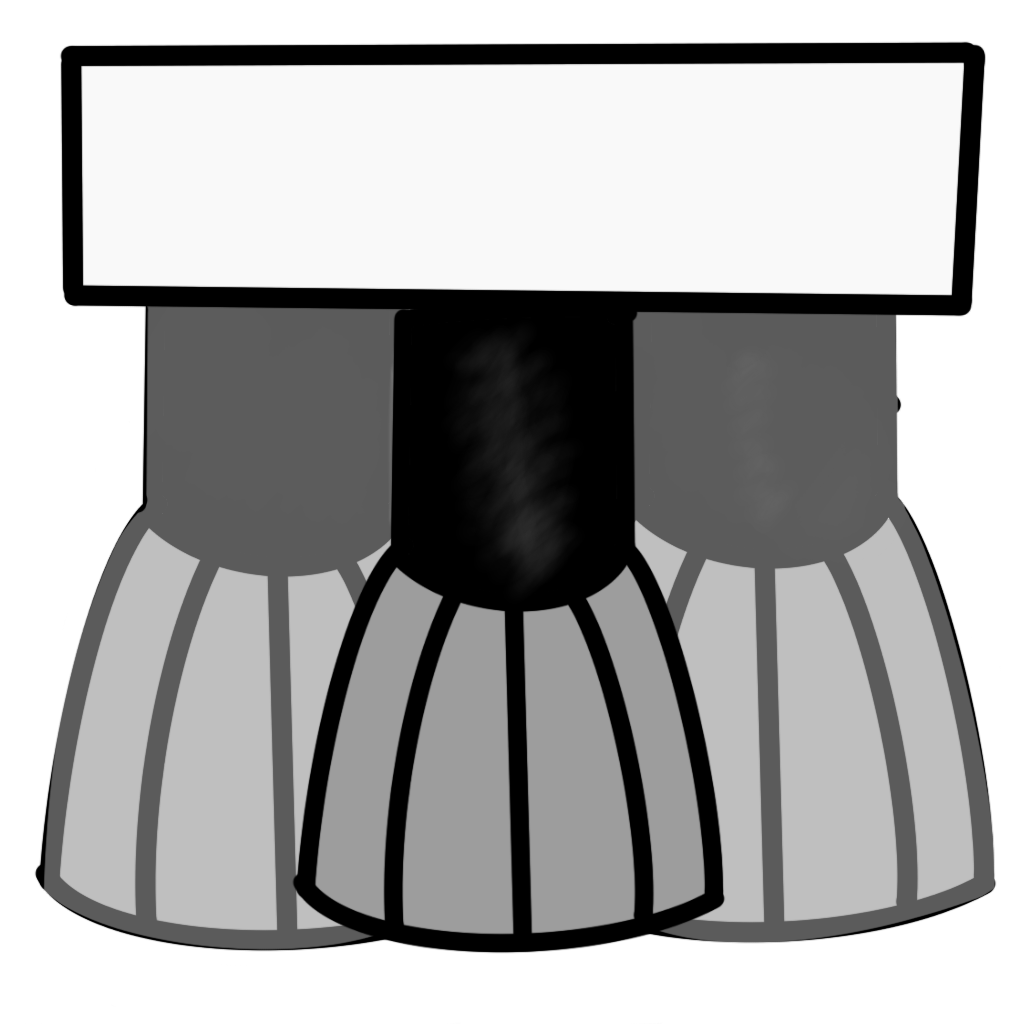
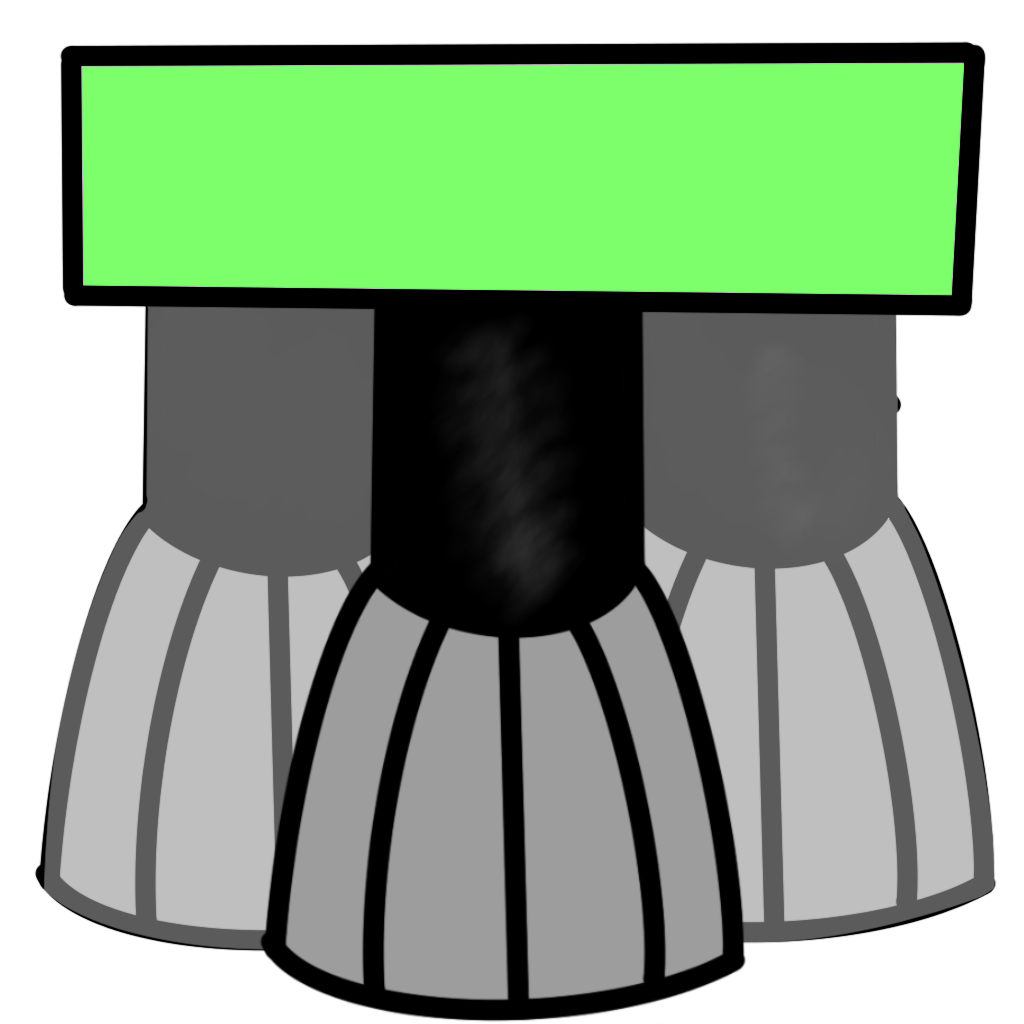
New engine parts + added 3 second no-start timer in beginning state

Changed region(s): [[0.0625, 0.0625, 0.9375, 1.0]]

diff --git a/Assets/Scripts/ScavengeMain.cs b/Assets/Scripts/ScavengeMain.cs
@@ -13,7 +13,8 @@ public class ScavengeMain : MonoBehaviour
 
     [SerializeField]
     RobotCharacter robot;
-    
+
+    float _beginningTimer;
 
     void Awake()
     {
@@ -26,6 +27,7 @@ public class ScavengeMain : MonoBehaviour
     {
         if(newState==States.Begining){
             playerData.Reset();
+            _beginningTimer = 0;
         }
         
 
@@ -34,7 +36,9 @@ public class ScavengeMain : MonoBehaviour
     void Update(){
         if(_gameState.State == States.Begining)
         {
-            if(Input.GetKeyDown(KeyCode.Space) || Input.GetKeyDown(KeyCode.Return))
+            _beginningTimer += Time.deltaTime;
+
+            if (_beginningTimer > 3 && Input.GetKeyDown(KeyCode.Space) || Input.GetKeyDown(KeyCode.Return))
             {
                 _gameState.State = States.Scavenge;
             }
